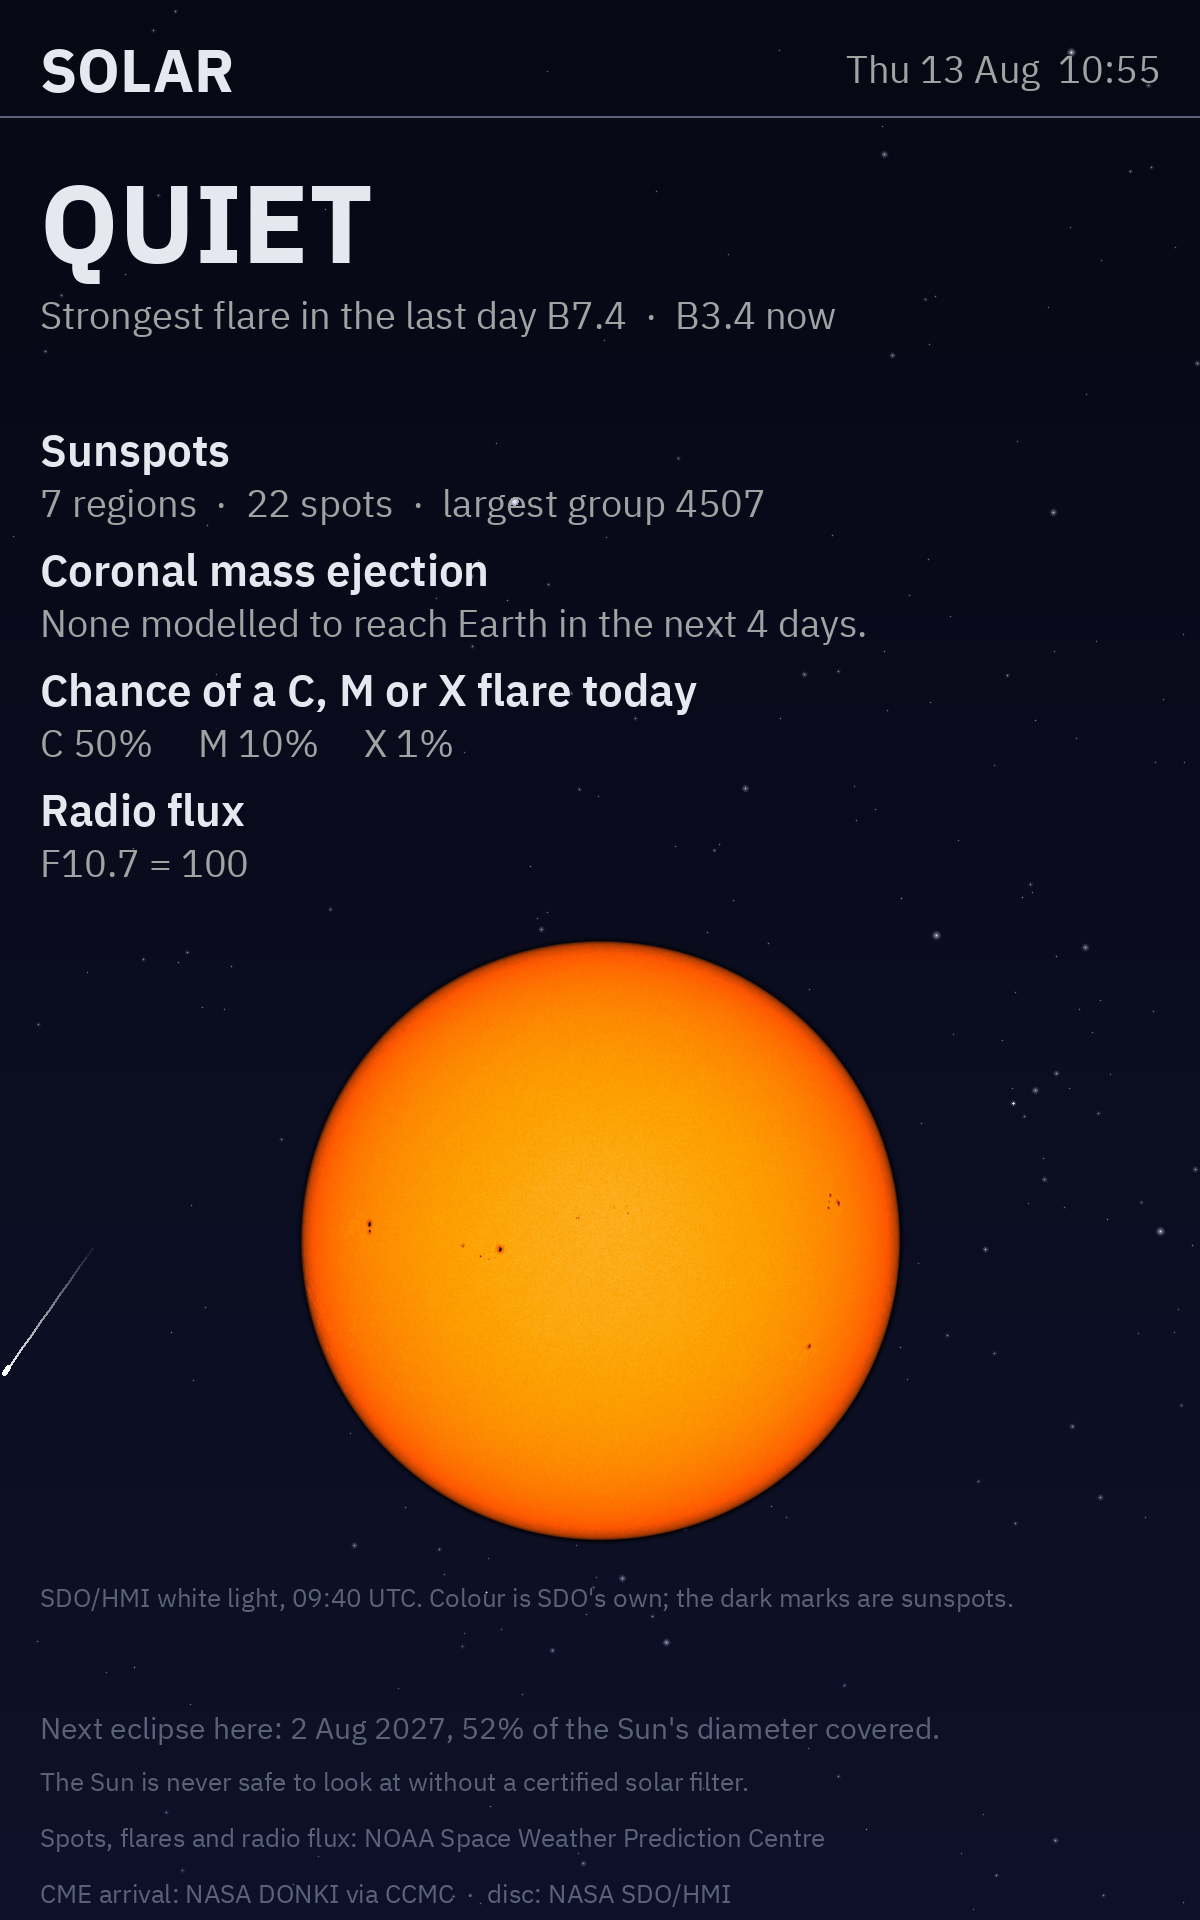
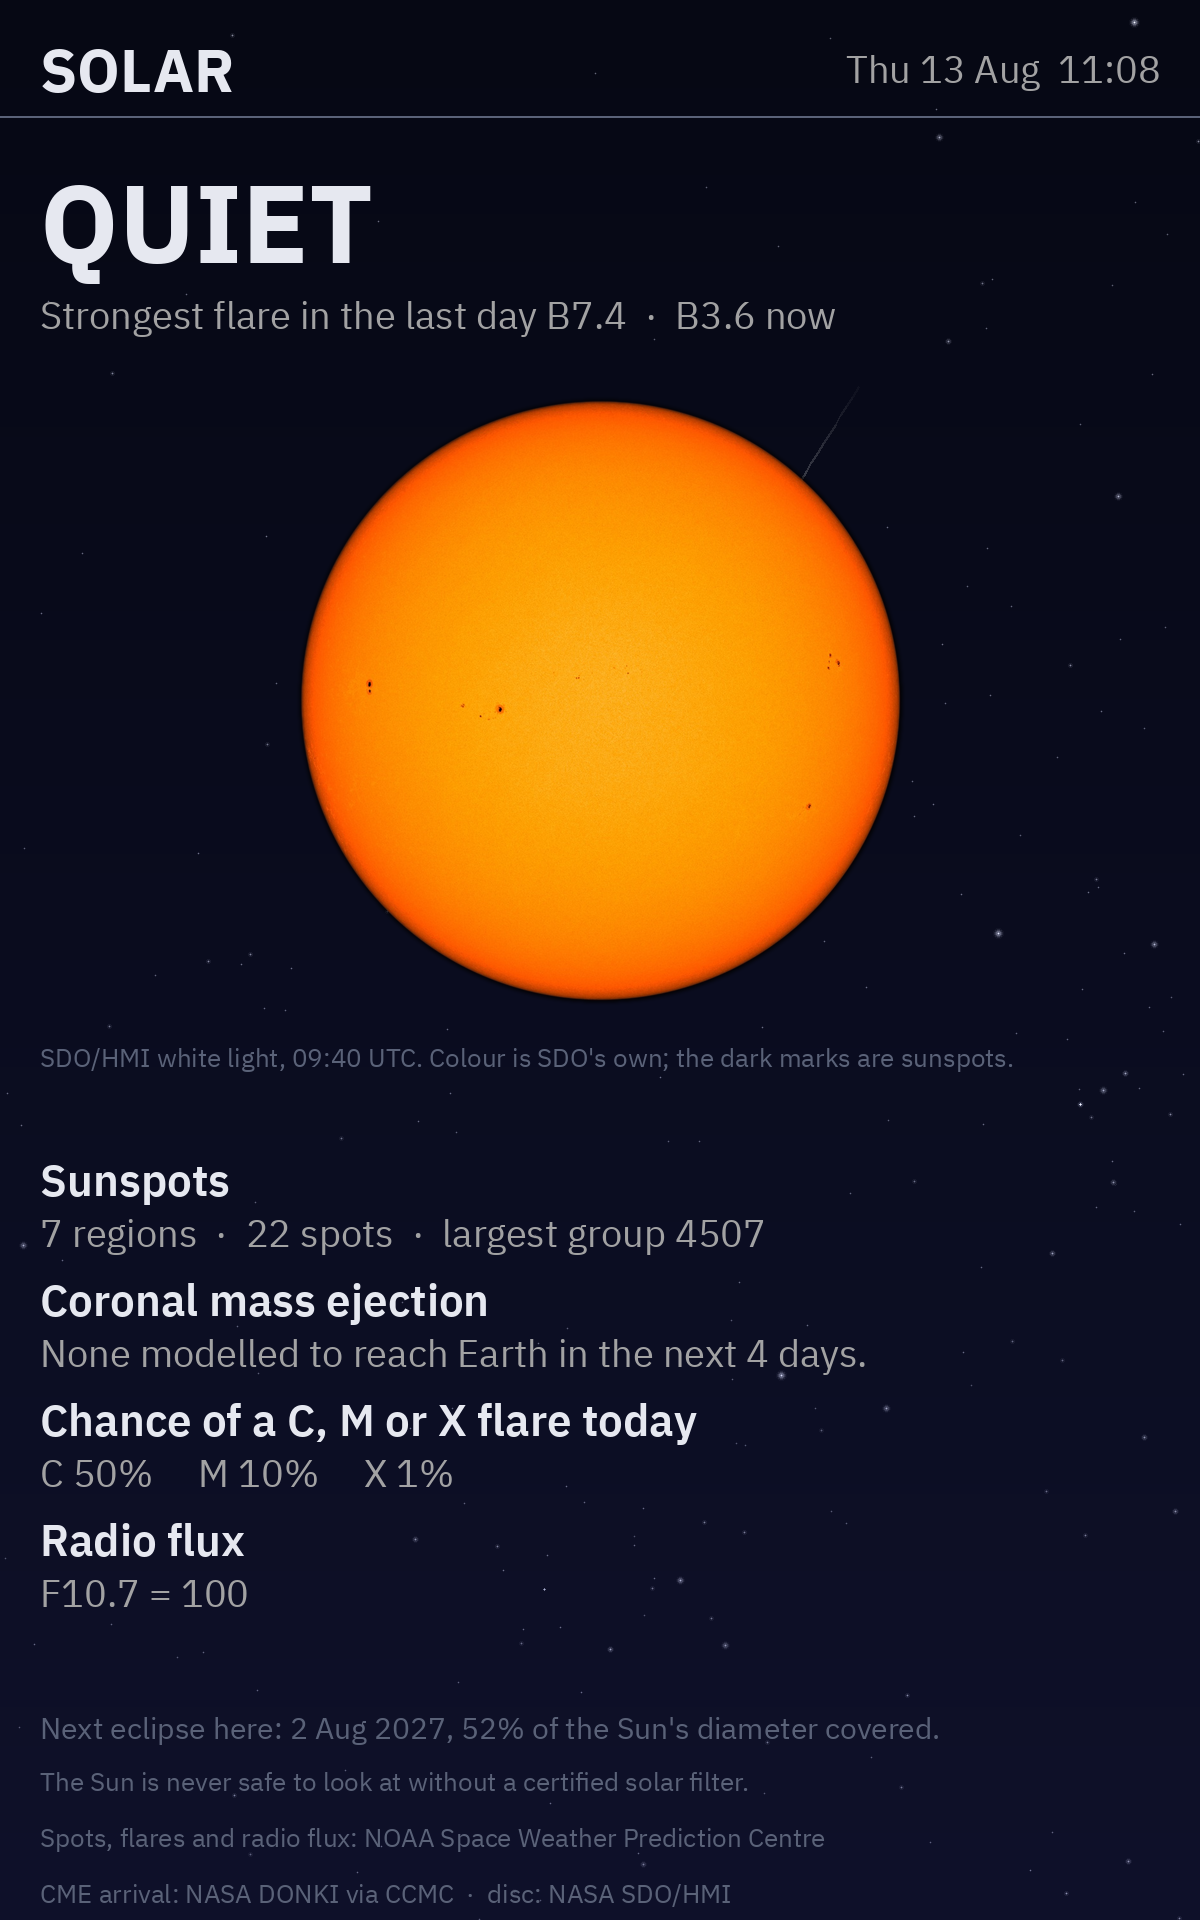
Put the solar disc above its detail, as every other page does
The page shipped inverted: four rows of text and then the disc underneath them.
Every other page in this build puts the graphic in the upper half with the
detail below - the Moon disc is centred at MOON_CY with its facts under it, and
the aurora field and the satellite track are drawn over the top with their text
blocks starting at 900. Solar was the only page that read the other way round.

The disc's preferred centre is MOON_CY itself, so the Sun lands exactly where
the Moon lands on page 1 and the two cards agree at a glance. It moves down
only when the header above it needs the room, which is the eclipse state, where
the band occupies the top and the disc follows it.

Both disc functions now RETURN the y below their own caption, and the caller
places the rows from that. The photographic path draws one caption line and the
drawn fallback draws two, so a constant would have had to be kept in step with
which path ran - the arrangement that had just produced a caption block running
into the footer.

SOL_Y0 and SOL_BAND_ROWS_Y are deleted rather than left: this change is what
made them unreferenced, and SOL_DISC_BOTTOM went with the centring rule it
existed for.

Verified in all three states on the Pi - ordinary, eclipse band, and the drawn
fallback - and then on the panel, sampled past a full rotation with the disc
confirmed present by its orange pixel count.

diff --git a/build10/display.py b/build10/display.py
@@ -82,7 +82,7 @@ from core.touch import TouchReader
 from core.values import _dt, _f, _i, _phrase, load_config
 from core.weather import KMH_TO_MPH, compare_sources, make_fetcher, obscuration_of
 
-VERSION = "0.45.0"
+VERSION = "0.46.0"
 
 # The largest image this program legitimately opens is a 730x730 moon frame.
 # PIL's default decompression-bomb threshold (~178M pixels) would let a hostile
@@ -1612,8 +1612,21 @@ SOL_ECLIPSE_BAND_HOURS = 24.0
 # at that pitch the disc's two caption lines ran into the footer block with no
 # gap between them - so the pitch pays for the row rather than the page losing
 # the separation that tells a reader where one block ends.
-SOL_Y0, SOL_ROW_H, SOL_VALUE_DY = 420, 120, 58
-SOL_BAND_ROWS_Y = 780
+SOL_ROW_H, SOL_VALUE_DY = 120, 58
+
+# ⇒ THE GRAPHIC GOES ABOVE THE DETAIL, WHICH IS WHAT EVERY OTHER PAGE DOES. The
+# Moon disc is centred at MOON_CY and its facts sit under it; the aurora field
+# and the satellite track are drawn over the top half with their text blocks
+# starting at 900. This page shipped inverted - four rows of text and then a
+# disc below them - and was the only one that read that way.
+#
+# The preferred centre is MOON_CY itself, so the Sun lands where the Moon lands
+# and the two cards agree at a glance. It moves DOWN only when the header block
+# above it needs the room, which is the eclipse state.
+SOL_DISC_CY = MOON_CY
+SOL_HEAD_BOTTOM = 340       # bottom of the verdict block, ordinary state
+SOL_BAND_BOTTOM = 740       # bottom of the eclipse band, including its rule
+SOL_ROWS_GAP = 70           # caption bottom -> first row label
 
 # ⇒ THE SAME RADIUS AS THE MOON CARD, AND THAT IS NOT A MATTER OF TASTE. The Sun
 # and the Moon subtend almost exactly the same half-degree from Earth - the
@@ -1629,7 +1642,7 @@ SOL_BAND_ROWS_Y = 780
 # SOL_SPOT_SCALE below is an exaggeration factor, not a measurement, and applies
 # only to the drawn fallback: at true scale a 120-millionths group is about
 # 3 px across here. The photograph needs none of it.
-SOL_DISC_R, SOL_DISC_BOTTOM = 300, 1400
+SOL_DISC_R = 300
 SOL_SPOT_MIN, SOL_SPOT_MAX, SOL_SPOT_SCALE = 9, 30, 6.0
 
 
@@ -1712,7 +1725,7 @@ def _draw_eclipse_band(draw, eclipse, now, f):
               "solar filter at every stage of a partial eclipse.",
               font=f["sm"], fill=WHITE)
     draw.line([(MARGIN, 700), (W - MARGIN, 700)], fill=DIM, width=2)
-    return SOL_BAND_ROWS_Y
+    return SOL_BAND_BOTTOM
 
 
 def _draw_activity_head(draw, data, f):
@@ -1734,7 +1747,7 @@ def _draw_activity_head(draw, data, f):
     else:
         draw.text((MARGIN, 290), "No flare measurement is available.",
                   font=f["sm"], fill=MUTED)
-    return SOL_Y0
+    return SOL_HEAD_BOTTOM
 
 
 def _solar_rows(data, compact):
@@ -1847,6 +1860,7 @@ def _draw_solar_photo(img, draw, photo, observed, y, f):
               f"SDO/HMI white light, {observed:%H:%M} UTC. Colour is SDO's own; "
               f"the dark marks are sunspots.",
               font=f["fn"], fill=DIM)
+    return y + r + 80
 
 
 def _draw_solar_disc(draw, groups, y, f, now=None):
@@ -1913,6 +1927,7 @@ def _draw_solar_disc(draw, groups, y, f, now=None):
     draw.text((MARGIN, y + r + 84),
               "Marks are enlarged to be visible; real spots are far smaller.",
               font=f["fn"], fill=DIM)
+    return y + r + 124
 
 
 def render_solar(states, lat, lon, now=None):
@@ -1958,6 +1973,21 @@ def render_solar(states, lat, lon, now=None):
     y = (_draw_eclipse_band(draw, eclipse, now, f) if imminent
          else _draw_activity_head(draw, data, f))
 
+    # ⇒ DISC FIRST, ROWS UNDER IT - the order every other page uses, and the one
+    # this page shipped inverted. The photograph is preferred and the drawing is
+    # the fallback, because the frame carries no position lag and the drawn
+    # marks do. Each returns the y below its own caption, so the rows are placed
+    # from what was actually drawn rather than from a constant that has to be
+    # kept in step with it.
+    groups = (data.get("regions") or {}).get("groups") or []
+    photo, observed = sun_image()
+    if photo is not None or groups:
+        cy = max(SOL_DISC_CY, y + SOL_DISC_R)
+        y = (_draw_solar_photo(img, draw, photo, observed, cy, f)
+             if photo is not None
+             else _draw_solar_disc(draw, groups, cy, f, now=now))
+        y += SOL_ROWS_GAP
+
     for label, value in _solar_rows(data, compact=imminent):
         draw.text((MARGIN, y), label, font=f["med"], fill=WHITE)
         draw.text((MARGIN, y + SOL_VALUE_DY), value, font=f["sm"], fill=MUTED)
@@ -1966,19 +1996,6 @@ def render_solar(states, lat, lon, now=None):
     if not data:
         draw.text((MARGIN, y), "Solar activity data is unavailable.",
                   font=f["sm"], fill=MUTED)
-    # The disc is centred in whatever is left below the rows rather than pinned,
-    # because the two states end their rows 250 px apart - a fixed centre either
-    # leaves a gap in one or puts the disc under the last row in the other.
-    # The photograph is preferred and the drawing is the fallback, not the other
-    # way round: the frame carries no position lag, and the drawn marks do.
-    groups = (data.get("regions") or {}).get("groups") or []
-    photo, observed = sun_image()
-    if photo is not None or groups:
-        cy = max(y + SOL_DISC_R + 40, (y + SOL_DISC_BOTTOM) // 2)
-        if photo is not None:
-            _draw_solar_photo(img, draw, photo, observed, cy, f)
-        else:
-            _draw_solar_disc(draw, groups, cy, f, now=now)
     # Credited only when the frame was actually used. Left unconditional, the
     # page would attribute a disc it had drawn itself to SDO, on precisely the
     # occasions SDO could not be reached.
